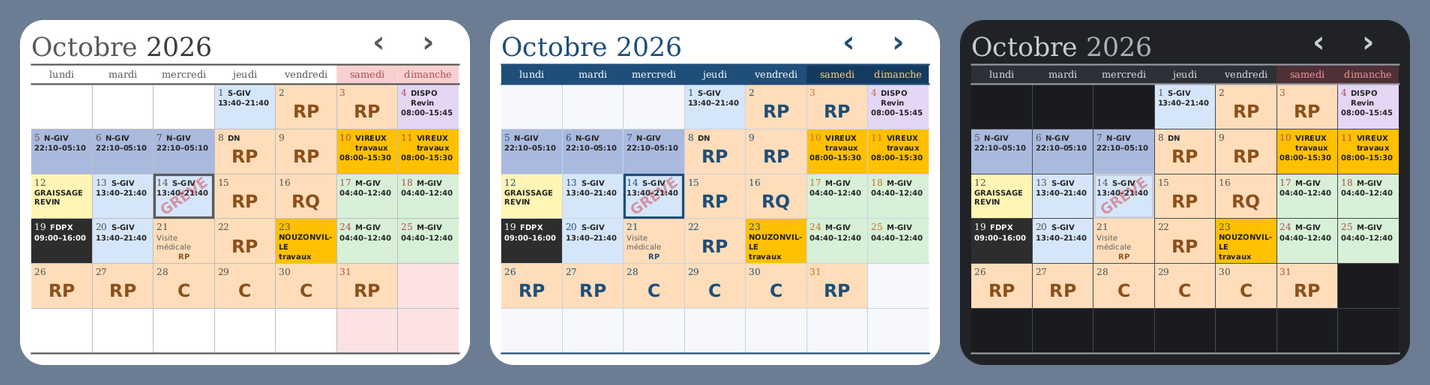
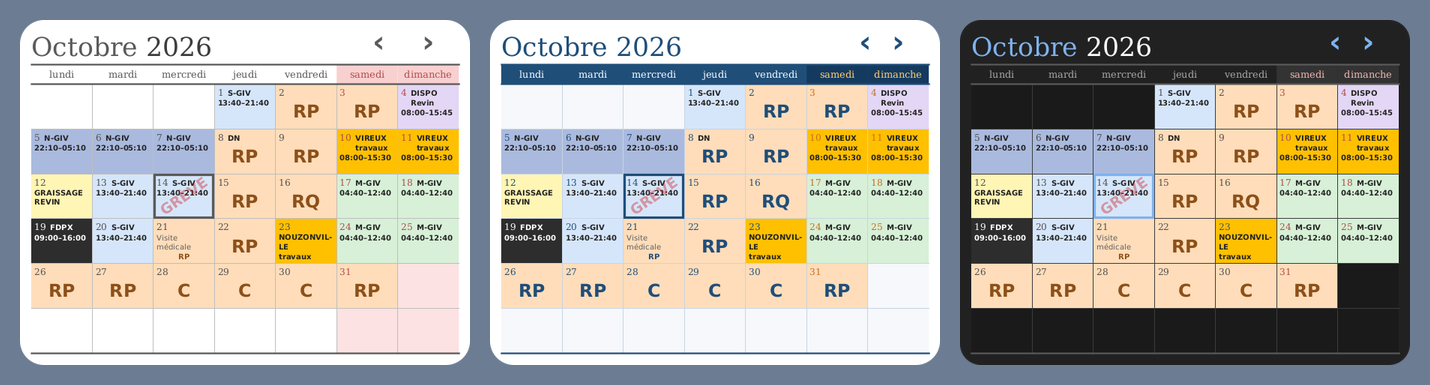
Add files via upload

diff --git a/app/src/main/java/fr/planning/commandes/DessinCalendrier.java b/app/src/main/java/fr/planning/commandes/DessinCalendrier.java
@@ -30,9 +30,60 @@ import java.util.Locale;
 final class DessinCalendrier {
 
     // Géométrie en millièmes : identique aux poids de res/layout/widget_calendrier.xml (cases touchables).
-    static final float H_TITRE = 130f, H_ENTETE = 56f, H_LIGNE = 130f, H_BAS = 34f;   // 130 + 56 + 6 × 130 + 34 = 1000
+    // Mois : 6 lignes de 130 ; 15 jours : 3 lignes de 260 (widget_calendrier_15.xml).
+    static final float H_TITRE = 130f, H_ENTETE = 56f, H_GRILLE = 780f, H_BAS = 34f;  // 130 + 56 + 780 + 34 = 1000
     static final float MARGE = 25f, COL = 950f / 7f;                                    // 25 + 7 × COL + 25 = 1000
-    static final int NB_LIGNES = 6;
+    static final int NB_LIGNES = 6, LIGNES_15 = 3;
+    static final String[] MOIS_COURTS = {"janv.", "févr.", "mars", "avr.", "mai", "juin", "juil.", "août", "sept.",
+            "oct.", "nov.", "déc."};
+
+    /** Ce que montre le widget : les cases (date ISO, ou null = vide), le nombre de lignes, le titre. */
+    static final class Periode {
+        final String[] cases;
+        final int lignes;
+        final String titreA, titreB;        // titreA dans la couleur du titre, titreB (année) dans celle de l'année
+        final boolean quinzaine;
+
+        Periode(String[] cases, int lignes, String titreA, String titreB, boolean quinzaine) {
+            this.cases = cases;
+            this.lignes = lignes;
+            this.titreA = titreA;
+            this.titreB = titreB;
+            this.quinzaine = quinzaine;
+        }
+
+        String description() {
+            return "Calendrier " + titreA + " " + titreB;
+        }
+    }
+
+    /** Le mois entier (6 semaines, cases hors du mois vides), comme la page du PDF. */
+    static Periode mois(int annee, int mois) {
+        return new Periode(cases(annee, mois), NB_LIGNES, MOIS[mois - 1], String.valueOf(annee), false);
+    }
+
+    /** 15 jours : 3 semaines complètes à partir du lundi « lundi ». */
+    static Periode quinzaine(Calendar lundi) {
+        String[] r = new String[7 * LIGNES_15];
+        Calendar d = (Calendar) lundi.clone();
+        Calendar debut = (Calendar) d.clone();
+        for (int k = 0; k < r.length; k++) {
+            r[k] = iso(d);
+            if (k < r.length - 1) d.add(Calendar.DAY_OF_MONTH, 1);
+        }
+        boolean memeAnnee = debut.get(Calendar.YEAR) == d.get(Calendar.YEAR);
+        String a = debut.get(Calendar.DAY_OF_MONTH) + " " + MOIS_COURTS[debut.get(Calendar.MONTH)]
+                + (memeAnnee ? "" : " " + debut.get(Calendar.YEAR)) + " – "
+                + d.get(Calendar.DAY_OF_MONTH) + " " + MOIS_COURTS[d.get(Calendar.MONTH)];
+        return new Periode(r, LIGNES_15, a, String.valueOf(d.get(Calendar.YEAR)), true);
+    }
+
+    /** Lundi de la semaine de « jour », décalé de « semaines » semaines. */
+    static Calendar lundi(Calendar jour, int semaines) {
+        Calendar d = new GregorianCalendar(jour.get(Calendar.YEAR), jour.get(Calendar.MONTH), jour.get(Calendar.DAY_OF_MONTH));
+        d.add(Calendar.DAY_OF_MONTH, -((d.get(Calendar.DAY_OF_WEEK) + 5) % 7) + 7 * semaines);
+        return d;
+    }
 
     static final String[] MOIS = {"Janvier", "Février", "Mars", "Avril", "Mai", "Juin", "Juillet", "Août",
             "Septembre", "Octobre", "Novembre", "Décembre"};
@@ -44,6 +95,13 @@ final class DessinCalendrier {
             {"trait", "#555555"}, {"grille", "#bebebe"}, {"weekend", "#fce2e2"}, {"weekend_entete", "#f8d0d0"},
             {"entete_txt", "#555555"}, {"entete_txt_we", "#af4b4b"}, {"chiffre", "#505050"}, {"chiffre_we", "#af4b4b"},
             {"txt", "#232323"}, {"txt_doux", "#5f5f5f"}, {"txt_repos", "#969696"}, {"gros", "#8c5019"}};
+
+    /** Style GrapheneOS : toujours sombre, comme les autres widgets GrapheneOS (couleurs_widget_gos.xml) :
+     *  fond anthracite #212121, texte blanc cassé #FAFAFA, gris #A8A8A8, bleu éclairci #7FB2EE, rouge doux #F2B8B5. */
+    private static final String[][] GOS = {{"fond", "#212121"}, {"titre", "#7fb2ee"}, {"annee", "#fafafa"},
+            {"trait", "#5a5a5a"}, {"grille", "#3c3c3c"}, {"weekend", "#2b2b2b"}, {"weekend_entete", "#333333"},
+            {"hors_mois", "#1a1a1a"}, {"entete_txt", "#a8a8a8"}, {"entete_txt_we", "#f2b8b5"}, {"chiffre", "#a8a8a8"},
+            {"chiffre_we", "#f2b8b5"}, {"txt", "#fafafa"}, {"txt_doux", "#a8a8a8"}, {"txt_repos", "#8a8a8a"}, {"gros", "#fafafa"}};
 
     private final Canvas cv;
     private final Paint p = new Paint(Paint.ANTI_ALIAS_FLAG);
@@ -75,9 +133,17 @@ final class DessinCalendrier {
     }
 
     static JSONObject paletteDefaut() {
+        return palette(BASE);
+    }
+
+    static JSONObject paletteGos() {
+        return palette(GOS);
+    }
+
+    private static JSONObject palette(String[][] valeurs) {
         JSONObject o = new JSONObject();
         try {
-            for (String[] kv : BASE) o.put(kv[0], kv[1]);
+            for (String[] kv : valeurs) o.put(kv[0], kv[1]);
         } catch (org.json.JSONException e) {
             // impossible
         }
@@ -193,15 +259,35 @@ final class DessinCalendrier {
      * @param cal        {"t": palette du thème, "c": palette Classique, "j": {date: case}} ou null
      * @param aujourdhui date ISO du jour (encadrée)
      * @param message    texte d'alerte en rouge à côté du titre, ou null
+     * @param gos        style GrapheneOS (toujours sombre) au lieu du thème du planning
      */
-    static Bitmap dessiner(int W, int H, float dp, int annee, int mois, JSONObject cal, String aujourdhui, String message) {
+    static Bitmap dessiner(int W, int H, float dp, Periode v, JSONObject cal, String aujourdhui, String message,
+                           boolean gos) {
         Bitmap bmp = Bitmap.createBitmap(W, H, Bitmap.Config.ARGB_8888);
-        new DessinCalendrier(new Canvas(bmp), dp).page(W, H, dp, annee, mois, cal, aujourdhui, message);
+        new DessinCalendrier(new Canvas(bmp), dp).page(W, H, dp, v, cal, aujourdhui, message, gos);
         return bmp;
     }
 
-    private void page(int W, int H, float dp, int annee, int mois, JSONObject cal, String aujourdhui, String message) {
-        JSONObject P = cal == null ? null : cal.optJSONObject("t");
+    static Bitmap dessiner(int W, int H, float dp, int annee, int mois, JSONObject cal, String aujourdhui, String message,
+                           boolean gos) {
+        return dessiner(W, H, dp, mois(annee, mois), cal, aujourdhui, message, gos);
+    }
+
+    static Bitmap dessiner(int W, int H, float dp, int annee, int mois, JSONObject cal, String aujourdhui, String message) {
+        return dessiner(W, H, dp, annee, mois, cal, aujourdhui, message, false);
+    }
+
+    /** Couleur des flèches ‹ › (= couleur du titre). */
+    static int couleurTitre(JSONObject cal, boolean gos) {
+        JSONObject P = gos ? paletteGos() : cal == null ? null : cal.optJSONObject("t");
+        Integer c = couleur(P == null ? paletteDefaut() : P, "titre");
+        return c == null ? 0xFF5A5A5A : c;
+    }
+
+    private void page(int W, int H, float dp, Periode v, JSONObject cal, String aujourdhui, String message,
+                      boolean gos) {
+        final int NB = v.lignes;
+        JSONObject P = gos ? paletteGos() : cal == null ? null : cal.optJSONObject("t");
         if (P == null) P = paletteDefaut();
         JSONObject cl = cal == null ? null : cal.optJSONObject("c");
         if (cl == null) cl = paletteDefaut();
@@ -215,17 +301,18 @@ final class DessinCalendrier {
         // fond arrondi (les lanceurs récents arrondissent aussi les widgets)
         p.setColor(fond);
         p.setStyle(Paint.Style.FILL);
-        cv.drawRoundRect(new RectF(0, 0, W, H), 16 * dp, 16 * dp, p);
+        float rayon = (gos ? 14 : 16) * dp;                 // GrapheneOS : angles un peu plus nets (comme widget_gos_fond)
+        cv.drawRoundRect(new RectF(0, 0, W, H), rayon, rayon, p);
 
         float x0 = W * MARGE / 1000f, x1 = W - x0, col = W * COL / 1000f;
         float yTrait = H * H_TITRE / 1000f, yGrille = yTrait + H * H_ENTETE / 1000f;
-        float lig = H * H_LIGNE / 1000f, yFin = yGrille + NB_LIGNES * lig;
+        float lig = H * H_GRILLE / NB / 1000f, yFin = yGrille + NB * lig;
         float hEntete = yGrille - yTrait;
         // unité de taille des textes : celle de la page A4 qui aurait des cases de cette taille
         float u = Math.min(col / 0.13429f, lig / 0.0965f);
         float finT = Math.max(1f, 0.5f * dp), ep = Math.max(1.5f, 1.1f * dp);
 
-        String[] cases = cases(annee, mois);
+        String[] cases = v.cases;
 
         if (entete != null) rect(x0, yTrait, x1, yGrille, entete);
         for (int c = 5; c <= 6; c++) {
@@ -244,7 +331,7 @@ final class DessinCalendrier {
             if (f == null && c < 5 && j != null && !j.optString("fe", "").isEmpty()) f = weekend;  // férié
             if (f != null) rect(bx0, by0, bx1, by1, f);
         }
-        for (int r = 1; r < NB_LIGNES; r++) ligne(x0, yGrille + r * lig, x1, yGrille + r * lig, grille, finT);
+        for (int r = 1; r < NB; r++) ligne(x0, yGrille + r * lig, x1, yGrille + r * lig, grille, finT);
         for (int c = 1; c < 7; c++) ligne(x0 + c * col, yGrille, x0 + c * col, yFin, grille, finT);
         for (float y : new float[]{yTrait, yGrille, yFin}) ligne(x0, y, x1, y, trait, ep);
 
@@ -267,10 +354,10 @@ final class DessinCalendrier {
             String m = message;
             if (larg(m, sansGras, tm) > limite * 0.5f) m = "⚠ Ouvrez l'appli";
             while (larg(m, sansGras, tm) > limite * 0.5f && reel(tm * 0.95f) < reel(tm)) tm *= 0.95f;
-            texte(m, limite, yTitre, sansGras, tm, Color.rgb(176, 40, 40), "rs");
+            texte(m, limite, yTitre, sansGras, tm, gos ? Color.rgb(242, 184, 181) : Color.rgb(176, 40, 40), "rs");
             limite -= larg(m, sansGras, tm) + 8 * dp;
         }
-        String nomMois = MOIS[mois - 1];
+        String nomMois = v.titreA, annee = v.titreB;
         float tTitre = Math.min(yTrait * 0.58f, 30 * dp);
         while (larg(nomMois + " " + annee, serif, tTitre) > limite - x0 && tTitre > minPx) tTitre *= 0.95f;
         texte(nomMois, x0, yTitre, serif, tTitre, titre, "ls");
@@ -309,7 +396,10 @@ final class DessinCalendrier {
                 cNum = we ? val(q, "chiffre_we", noir) : val(q, "chiffre", noir);
             }
             float base = cy0 + pad + ascNum;
-            String numTxt = String.valueOf(Integer.parseInt(cases[k].substring(8)));
+            int numero = Integer.parseInt(cases[k].substring(8));
+            String numTxt = String.valueOf(numero);
+            if (v.quinzaine && (numero == 1 || k == 0))       // 15 jours : le mois au 1er et sur la 1re case
+                numTxt += " " + MOIS_COURTS[Integer.parseInt(cases[k].substring(5, 7)) - 1];
             texte(numTxt, cx0 + pad, base, serif, tNum, cNum, "ls");
             float largFerie = 0;
             if (!ferie.isEmpty()) {                                    // nom du férié, en haut à droite

diff --git a/app/src/main/java/fr/planning/commandes/PlanningWidgetCalendrier.java b/app/src/main/java/fr/planning/commandes/PlanningWidgetCalendrier.java
@@ -22,7 +22,10 @@ import java.util.Calendar;
  *   - ‹ › : mois précédent / suivant (du mois précédent à deux mois plus loin, les jours envoyés par l'appli).
  *     Retour au mois en cours chaque nuit (WidgetBase.nouveauJour).
  *   - Le jour J est encadré.
- * Aucun réglage à la pose : le thème est celui du planning.
+ * Réglé à la pose (WidgetReglages, aussi par appui long → Réglages) :
+ *   - style d'origine = thème du planning choisi dans l'application (comme le PDF), ou GrapheneOS (toujours sombre) ;
+ *   - durée : le mois entier (6 lignes), ou 15 jours = 3 semaines à partir de la semaine en cours
+ *     (widget_calendrier_15.xml, cases deux fois plus hautes ; ‹ › avancent de 2 semaines).
  */
 public class PlanningWidgetCalendrier extends WidgetBase {
 
@@ -99,18 +102,30 @@ public class PlanningWidgetCalendrier extends WidgetBase {
         return new int[]{largeur > 0 ? largeur : 320, hauteur > 0 ? hauteur : 300};
     }
 
+    /** Réglage « durée » : 15 jours (sinon le mois entier). */
+    static boolean quinzaine(Context contexte, int id) {
+        return prefs(contexte).getInt(WidgetReglages.DUREE + id, 0) == 15;
+    }
+
+    /** Période affichée : mois en cours + dec mois, ou 3 semaines à partir de la semaine en cours + 2 × dec semaines. */
+    static DessinCalendrier.Periode periode(Calendar auj, int dec, boolean quinzaine) {
+        if (quinzaine) return DessinCalendrier.quinzaine(DessinCalendrier.lundi(auj, 2 * dec));
+        Calendar m = (Calendar) auj.clone();
+        m.set(Calendar.DAY_OF_MONTH, 1);
+        m.add(Calendar.MONTH, dec);
+        return DessinCalendrier.mois(m.get(Calendar.YEAR), m.get(Calendar.MONTH) + 1);
+    }
+
     @Override
     RemoteViews construire(Context contexte, int idWidget) {
-        RemoteViews vue = new RemoteViews(contexte.getPackageName(), R.layout.widget_calendrier);
+        boolean q = quinzaine(contexte, idWidget);
+        RemoteViews vue = new RemoteViews(contexte.getPackageName(), q ? R.layout.widget_calendrier_15 : R.layout.widget_calendrier);
         JSONObject donnees = donnees(contexte);
         JSONObject cal = donnees == null ? null : donnees.optJSONObject("cal");
 
         int dec = decalage(contexte, idWidget);
         Calendar auj = Calendar.getInstance();
-        Calendar m = (Calendar) auj.clone();
-        m.set(Calendar.DAY_OF_MONTH, 1);
-        m.add(Calendar.MONTH, dec);
-        int annee = m.get(Calendar.YEAR), mois = m.get(Calendar.MONTH) + 1;
+        DessinCalendrier.Periode v = periode(auj, dec, q);
 
         String message;
         if (cal == null) message = "Ouvrez l'application";
@@ -121,24 +136,25 @@ public class PlanningWidgetCalendrier extends WidgetBase {
         float echelle = (float) Math.min(densite, Math.sqrt(PIXELS_MAX / ((double) t[0] * t[1])));
         echelle = Math.max(1f, echelle);
         int W = Math.round(t[0] * echelle), H = Math.round(t[1] * echelle);
-        Bitmap image = DessinCalendrier.dessiner(W, H, echelle, annee, mois, cal, DessinCalendrier.iso(auj), message);
+        boolean gos = prefs(contexte).getInt(WidgetReglages.STYLE + idWidget, WidgetReglages.STYLE_ORIGINE)
+                == WidgetReglages.STYLE_GOS;
+        Bitmap image = DessinCalendrier.dessiner(W, H, echelle, v, cal, DessinCalendrier.iso(auj), message, gos);
         vue.setImageViewBitmap(R.id.w_image, image);
 
-        String[] cases = DessinCalendrier.cases(annee, mois);
-        for (int k = 0; k < CASES.length; k++) {
+        String[] cases = v.cases;
+        for (int k = 0; k < cases.length; k++) {
             if (cases[k] != null) vue.setOnClickPendingIntent(CASES[k], ouvrirJour(contexte, cases[k]));
         }
         vue.setOnClickPendingIntent(R.id.w_titre_zone, ouvrirAppli(contexte));
 
-        Integer coul = DessinCalendrier.couleur(cal == null ? null : cal.optJSONObject("t"), "titre");
-        int fleches = coul == null ? 0xFF5A5A5A : coul;
+        int fleches = DessinCalendrier.couleurTitre(cal, gos);
         vue.setTextColor(R.id.w_prec, fleches);
         vue.setTextColor(R.id.w_suiv, fleches);
         vue.setViewVisibility(R.id.w_prec, dec > MOIS_MIN ? View.VISIBLE : View.INVISIBLE);
         vue.setViewVisibility(R.id.w_suiv, dec < MOIS_MAX ? View.VISIBLE : View.INVISIBLE);
         vue.setOnClickPendingIntent(R.id.w_prec, changerMois(contexte, idWidget, -1));
         vue.setOnClickPendingIntent(R.id.w_suiv, changerMois(contexte, idWidget, 1));
-        vue.setContentDescription(R.id.w_image, "Calendrier " + DessinCalendrier.MOIS[mois - 1] + " " + annee);
+        vue.setContentDescription(R.id.w_image, v.description());
         return vue;
     }
 }

diff --git a/app/src/main/java/fr/planning/commandes/WidgetReglages.java b/app/src/main/java/fr/planning/commandes/WidgetReglages.java
@@ -19,9 +19,10 @@ import android.widget.TextView;
 
 /**
  * Écran de réglage d'un widget, ouvert à la pose (et par appui long → « Réglages » sur Android 12+) :
- *   - Style : d'origine (suit le thème du téléphone) ou GrapheneOS (toujours sombre) ;
+ *   - Style : d'origine (suit le thème du téléphone ; pour le calendrier, le thème du planning) ou GrapheneOS (toujours sombre) ;
  *   - Horaires : automatique (selon la largeur), toujours, jamais    } widget « Planning »
  *   - Durée : 7 jours ou 14 jours (2 pages)                           } seulement
+ *   Calendrier : style + durée (le mois entier ou 15 jours = 3 semaines).
  * Les choix sont gardés dans les préférences « widget » (clés + numéro du widget).
  */
 public class WidgetReglages extends Activity {
@@ -44,28 +45,41 @@ public class WidgetReglages extends Activity {
             return;
         }
         AppWidgetProviderInfo info = AppWidgetManager.getInstance(this).getAppWidgetInfo(id);
-        final boolean planning = info == null || info.provider == null
-                || !info.provider.getClassName().endsWith("PlanningWidgetProchain");
+        String classe = info == null || info.provider == null ? "" : info.provider.getClassName();
+        final boolean calendrier = classe.endsWith("PlanningWidgetCalendrier");
+        final boolean planning = !calendrier && !classe.endsWith("PlanningWidgetProchain");
         SharedPreferences p = WidgetBase.prefs(this);
 
         LinearLayout col = new LinearLayout(this);
         col.setOrientation(LinearLayout.VERTICAL);
         int m = dp(20);
         col.setPadding(m, m, m, m);
-        titre(col, planning ? "Widget « Planning »" : "Widget « Prochain service »", 20);
+        titre(col, calendrier ? "Widget « Calendrier du mois »" : planning ? "Widget « Planning »" : "Widget « Prochain service »", 20);
 
         final RadioGroup style = groupe(col, "Style",
-                new String[]{"D'origine (suit le thème clair ou sombre du téléphone)", "GrapheneOS (toujours sombre)"},
+                calendrier ? new String[]{"D'origine : comme le PDF, au thème du planning choisi dans l'application",
+                        "GrapheneOS (toujours sombre)"}
+                        : new String[]{"D'origine (suit le thème clair ou sombre du téléphone)", "GrapheneOS (toujours sombre)"},
                 p.getInt(STYLE + id, STYLE_ORIGINE));
         final RadioGroup heures = planning ? groupe(col, "Horaires",
                 new String[]{"Automatique : affichés si le widget est assez large", "Toujours", "Jamais"},
                 p.getInt(HEURES + id, HEURES_AUTO)) : null;
         final RadioGroup duree = planning ? groupe(col, "Durée",
                 new String[]{"7 jours", "14 jours (2 pages, bouton « Suite »)"},
-                p.getInt(DUREE + id, 7) == 14 ? 1 : 0) : null;
+                p.getInt(DUREE + id, 7) == 14 ? 1 : 0)
+                : calendrier ? groupe(col, "Durée",
+                new String[]{"Le mois entier", "15 jours : les 3 semaines à partir de cette semaine (cases plus grandes)"},
+                p.getInt(DUREE + id, 0) == 15 ? 1 : 0) : null;
         if (planning) {
             TextView aide = new TextView(this);
             aide.setText("Si le widget est peu haut, il affiche 4 jours par page. Toucher un jour l'ouvre dans l'application.");
+            aide.setAlpha(0.7f);
+            aide.setPadding(0, dp(12), 0, 0);
+            col.addView(aide);
+        }
+        if (calendrier) {
+            TextView aide = new TextView(this);
+            aide.setText("‹ › changent de mois (de 2 semaines en « 15 jours »). Toucher un jour l'ouvre dans l'application.");
             aide.setAlpha(0.7f);
             aide.setPadding(0, dp(12), 0, 0);
             col.addView(aide);
@@ -81,7 +95,7 @@ public class WidgetReglages extends Activity {
             SharedPreferences.Editor ed = WidgetBase.prefs(this).edit();
             ed.putInt(STYLE + id, indice(style));
             if (heures != null) ed.putInt(HEURES + id, indice(heures));
-            if (duree != null) ed.putInt(DUREE + id, indice(duree) == 1 ? 14 : 7);
+            if (duree != null) ed.putInt(DUREE + id, calendrier ? (indice(duree) == 1 ? 15 : 0) : indice(duree) == 1 ? 14 : 7);
             ed.remove("p_" + id);
             ed.apply();
             WidgetBase.majTous(this);

diff --git a/README.md b/README.md
@@ -51,9 +51,13 @@ Pas de compte, pas d'abonnement, **pas de données envoyées sur Internet**. Un 
 
 *« Planning » (style d'origine ou GrapheneOS, 7 ou 14 jours) et « Prochain service » (aperçus dessinés).*
 
-<img src="docs/captures/widget-calendrier.png" alt="Widget Calendrier du mois, en thèmes Classique, Bleu moderne et Sombre" width="820">
+<img src="docs/captures/widget-calendrier.png" alt="Widget Calendrier : thèmes Classique et Bleu moderne, style GrapheneOS" width="820">
 
-*« Calendrier du mois » : la page du PDF sur l'écran d'accueil, au thème du planning (ici Classique, Bleu moderne, Sombre).*
+*« Calendrier » : la page du PDF sur l'écran d'accueil. Style d'origine = thème du planning (ici Classique et Bleu moderne), ou style GrapheneOS (à droite).*
+
+<img src="docs/captures/widget-calendrier-15.png" alt="Widget Calendrier sur 15 jours, styles d'origine et GrapheneOS" width="820">
+
+*Le même widget réglé sur **15 jours** : 3 semaines à partir de la semaine en cours, cases plus grandes.*
 
 ---
 
@@ -78,7 +82,7 @@ Pas de compte, pas d'abonnement, **pas de données envoyées sur Internet**. Un 
 **Au quotidien sur Android**
 - **Apparence GrapheneOS** (Réglages) : toute l'application aux couleurs de GrapheneOS (anthracite, blanc cassé, bleu, toujours en sombre), barres du téléphone comprises. Sinon, elle suit le thème clair ou sombre du téléphone.
 - **Widget « Planning »** : une ligne par jour, le service en couleur ; réglé à la pose (style d'origine ou **GrapheneOS**, horaires, **7 ou 14 jours**), il s'adapte à sa taille. Toucher un jour l'ouvre dans l'application.
-- **Widget « Calendrier du mois »** : la grille du PDF sur l'écran d'accueil, au thème du planning, jour J encadré, **‹ ›** pour changer de mois.
+- **Widget « Calendrier »** : la grille du PDF sur l'écran d'accueil, **le mois ou 15 jours**, au thème du planning ou en style **GrapheneOS** (réglé à la pose), jour J encadré, **‹ ›** pour changer de période.
 - **Widget « Prochain service »** (2 × 1) : « Demain · 04:40–12:40 » et le service en couleur ; une nuit reste « En cours » jusqu'au matin.
 - Les widgets changent de jour tout seuls, même téléphone en veille ou après un redémarrage.
 
